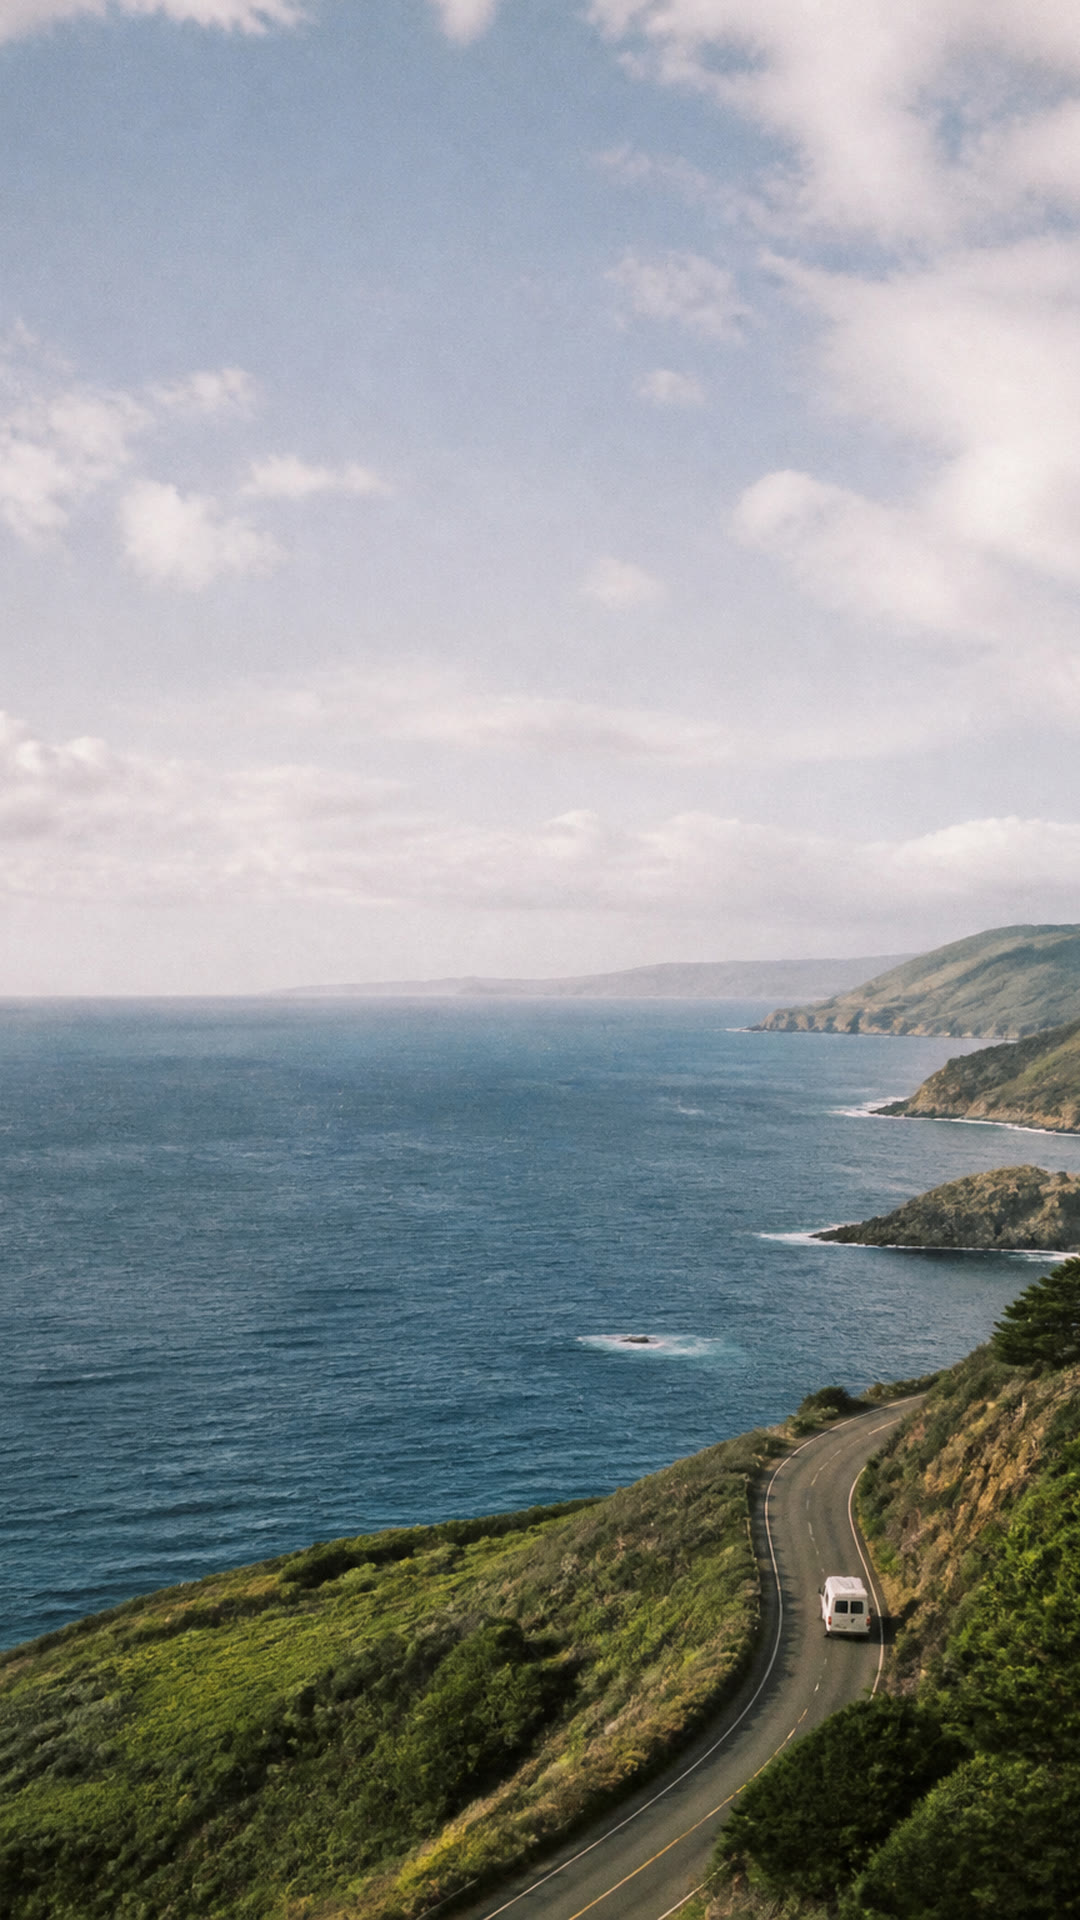
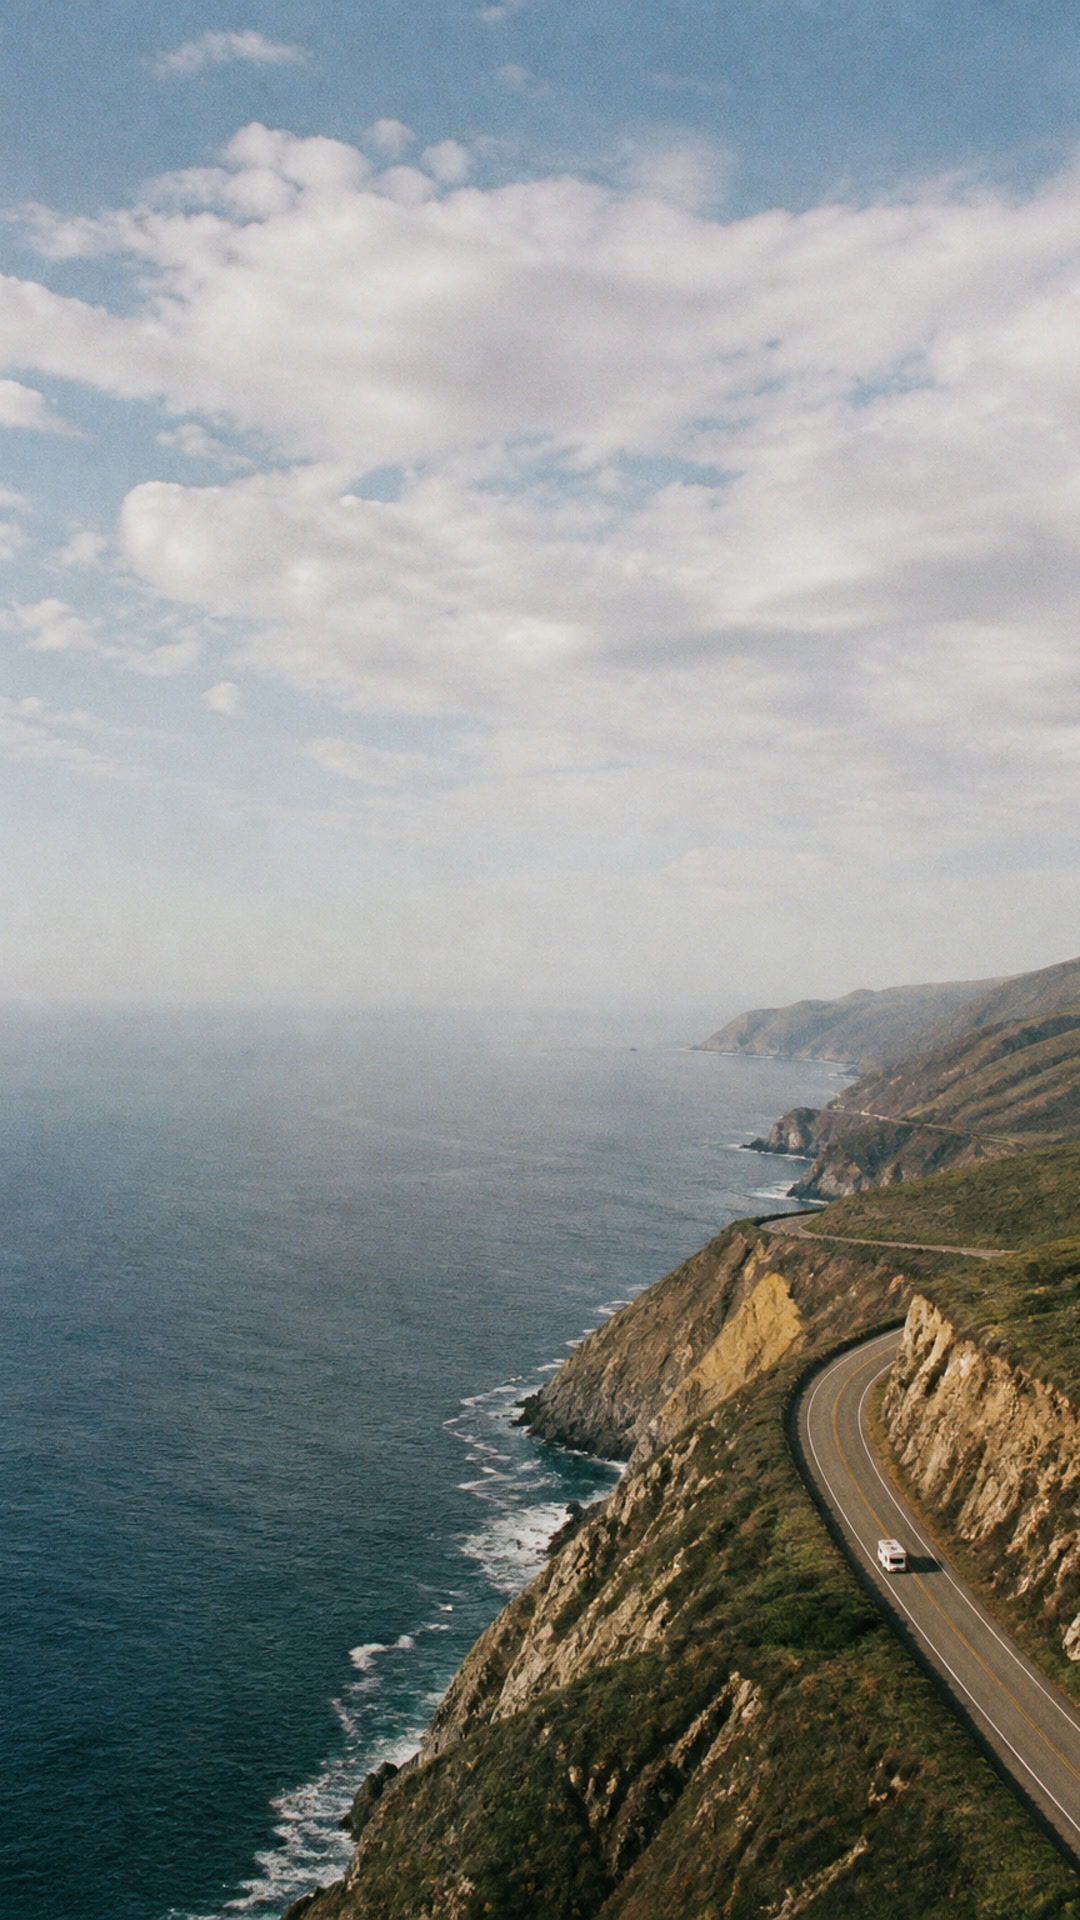
v19: much wider scene stills (subject ~5-10% of frame), CTA h2 keep-all wrap fix, scene-3 clip fix, desktop bg contain
- Regenerate all 6 vertical 1080x1920 stills with much wider FOV (film/Portra look,
  tiny subjects, no close faces, no flashy wealth): morning/travel/community/work/sunset/dusk
- CTA h2: always break as 「場所に縛られない働き方を、」/「ここから。」 with word-break: keep-all
  and a clamp size that fits 13 chars down to 320px (no more mid-word 働／き方 split)
- Scene 3 「ひとりでつくるものじゃない。」 no longer clips left/right at ~390px:
  particles.js now shrinks font to fit vw*0.96 (fit-to-width), plus a mobile CSS fallback
  with slightly smaller size / tighter tracking for that section
- Desktop (min-width:769px): background-size contain instead of cover so portrait stills
  are no longer massively zoomed; dark letterbox sides. Mobile keeps full-bleed cover.
- Bump asset cache to ?v=19. Light particles, mint #7DFFB2 em, UTAGE form,
  legal footer and copyright unchanged.

diff --git a/index.html b/index.html
@@ -9,7 +9,7 @@
 <link rel="preconnect" href="https://fonts.gstatic.com" crossorigin>
 <link href="https://fonts.googleapis.com/css2?family=Noto+Sans+JP:wght@400;500;600&family=Noto+Serif+JP:wght@400;500;600&display=swap" rel="stylesheet">
 <style>
-  /* v18: luminous light-mote particles + solid text crossfade; wider pulled-back scene stills; mint em for scene 5 */
+  /* v19: much wider scene stills (subject ~5-10% of frame); CTA h2 keep-all wrap fix; scene-3 mobile fit fix; desktop bg = contain (no cover zoom) */
   :root { --accent: #d4a574; --accent-light: #e8c39a; }
   * { box-sizing: border-box; margin: 0; padding: 0; }
   html, body { height: 100%; background: #0a0a0a; color: #fff; }
@@ -42,12 +42,12 @@
      bg5 (decision/夕日) ← scene-sunset.jpg (tiny van silhouette under vast sunset sky)
      bg6 (CTA) ← scene-dusk.jpg (tiny warm-lit van window in blue-hour vastness)
   */
-  #bg1 { background-image: url("scene-morning.jpg?v=18"); }
-  #bg2 { background-image: url("scene-travel.jpg?v=18"); }
-  #bg3 { background-image: url("scene-community.jpg?v=18"); }
-  #bg4 { background-image: url("scene-work.jpg?v=18"); }
-  #bg5 { background-image: url("scene-sunset.jpg?v=18"); }
-  #bg6 { background-image: url("scene-dusk.jpg?v=18"); }
+  #bg1 { background-image: url("scene-morning.jpg?v=19"); }
+  #bg2 { background-image: url("scene-travel.jpg?v=19"); }
+  #bg3 { background-image: url("scene-community.jpg?v=19"); }
+  #bg4 { background-image: url("scene-work.jpg?v=19"); }
+  #bg5 { background-image: url("scene-sunset.jpg?v=19"); }
+  #bg6 { background-image: url("scene-dusk.jpg?v=19"); }
   #glyph-canvas {
     position: fixed;
     inset: 0;
@@ -111,7 +111,7 @@
     text-align: center;
   }
   .cta-inner {
-    width: 100%; max-width: 28rem;
+    width: 100%; max-width: 30rem;
     opacity: 0;
     transition: opacity 0.9s ease-out;
   }
@@ -120,8 +120,10 @@
   .cta h2 {
     font-family: "Noto Serif JP", serif;
     font-weight: 400;
-    font-size: clamp(1.9rem, 5vw, 2.6rem);
-    letter-spacing: .14em;
+    /* sized so 「場所に縛られない働き方を、」 (13 chars) fits one line down to 320px without mid-word breaks */
+    font-size: clamp(1.35rem, 5.6vw, 2rem);
+    letter-spacing: .1em;
+    word-break: keep-all;
     margin-bottom: 1.2rem;
   }
   .cta .lead { color: rgba(255,255,255,.85); font-size: 1.05rem; line-height: 1.9; margin-bottom: 2rem; }
@@ -151,6 +153,9 @@
   /* Mobile (default): compact short lines */
   @media (max-width: 768px) {
     .lines { letter-spacing: .07em; line-height: 2; font-size: clamp(1.55rem, 6.4vw, 2.15rem); }
+    /* Scene 3's em line 「ひとりでつくるものじゃない。」 (14 chars) overflows ~390px viewports:
+       shrink + tighten so the full line fits (fallback for reduced-motion / pre-paint) */
+    section[data-scene="3"] .lines { font-size: clamp(1.05rem, 5.2vw, 2rem); letter-spacing: .04em; }
   }
   /* Desktop: wider layout, larger type, fewer breaks */
   @media (min-width: 769px) {
@@ -161,6 +166,9 @@
       letter-spacing: .12em;
       line-height: 2;
     }
+    /* Portrait stills on wide screens: cover zooms massively (only ~1/3 of the frame visible).
+       contain shows the whole composition; side letterbox falls back to the dark bg color. */
+    .bg { background-size: contain; }
   }
   /* Ken Burns animation - reduced scale for less crop */
   @keyframes kenburns {
@@ -227,7 +235,7 @@
     <section class="cta" data-scene="6">
       <div class="cta-inner">
         <p class="eyebrow">期間限定・無料セミナー</p>
-        <h2>場所に縛られない働き方を、<br class="sp">ここから。</h2>
+        <h2>場所に縛られない働き方を、<br>ここから。</h2>
         <p class="lead">自由な暮らしを始めるために、<br class="sp">最初に整えるべき環境と具体的なステップを、<br class="sp">無料セミナーでお伝えします。</p>
         <form id="form" action="https://utage-system.com/r/nLIjbJDSiDdp/store" method="post">
           <input type="hidden" name="redirect_url" value="https://utage-system.com/p/ithxISVdorRw">
@@ -245,6 +253,6 @@
       </div>
     </section>
   </div>
-<script src="particles.js?v=18"></script>
+<script src="particles.js?v=19"></script>
 </body>
 </html>

diff --git a/particles.js b/particles.js
@@ -1,4 +1,4 @@
-/* v18: glyph-sampled luminous light-mote particles (additive glow, no dark underlay) + solid text crossfade at hold */
+/* v19: glyph-sampled luminous light-mote particles + solid text crossfade; fit-to-width shrink so long lines never clip on phones */
 (function () {
   var reduceMotion = window.matchMedia && window.matchMedia("(prefers-reduced-motion: reduce)").matches;
 
@@ -242,17 +242,27 @@
   function sampleMessage(msg) {
     var fs = fontSizePx();
     var track = trackingEm();
-    var lineH = fs * 2;
     var probe = document.createElement("canvas");
     var pctx = probe.getContext("2d", { willReadFrequently: true });
-    var maxLineW = 0;
     var useEm = msg.useEm;
-    var measured = msg.lines.map(function (runs) {
-      var m = measureLine(pctx, runs, fs, track);
-      if (m.width > maxLineW) maxLineW = m.width;
-      return m;
-    });
-    var pad = Math.max(28, fs);
+    // Fit-to-width: shrink fs until the longest line fits inside vw*0.96 including padding,
+    // so long lines (e.g. scene 3 「ひとりでつくるものじゃない。」) never clip left/right on phones.
+    var maxLineW = 0;
+    var measured = [];
+    var pad = 28;
+    for (var fit = 0; fit < 5; fit++) {
+      maxLineW = 0;
+      measured = msg.lines.map(function (runs) {
+        var m = measureLine(pctx, runs, fs, track);
+        if (m.width > maxLineW) maxLineW = m.width;
+        return m;
+      });
+      pad = Math.max(28, fs);
+      var avail = vw * 0.96 - pad * 2;
+      if (maxLineW <= avail || fs <= 13) break;
+      fs = Math.max(13, fs * (avail / maxLineW) * 0.985);
+    }
+    var lineH = fs * 2;
     var w = Math.ceil(Math.min(vw * 0.96, maxLineW + pad * 2));
     var h = Math.ceil(msg.lines.length * lineH + pad * 2);
     var localDpr = Math.min(window.devicePixelRatio || 1, 2);
